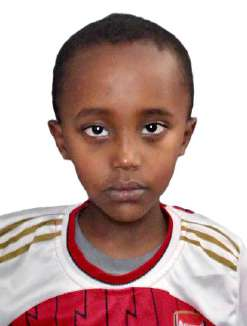
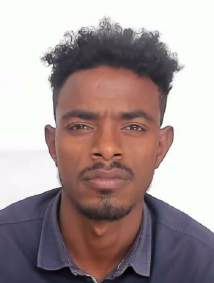
Update static images by replacing existing files and removing obsolete images. Modify form submission logic in index.html to prevent default behavior only on validation failure, allowing normal submission otherwise.

diff --git a/app/templates/index.html b/app/templates/index.html
@@ -936,34 +936,18 @@
 
     // Form submission
     form.addEventListener("submit", function(e) {
-      e.preventDefault();
-      sessionStorage.setItem('pdfExtractStart', Date.now());
+      // Only prevent default if validation fails
       if (!validateForm()) {
+        e.preventDefault();
         return;
       }
-      
+      sessionStorage.setItem('pdfExtractStart', Date.now());
       // Show loading state
       submitBtn.disabled = true;
       spinner.style.display = "block";
       submitIcon.style.display = "none";
       progressContainer.style.display = "block";
-      
-      // Simulate progress (in a real app, this would be tied to actual upload progress)
-      let progress = 0;
-      const progressInterval = setInterval(() => {
-        progress += Math.random() * 10;
-        if (progress >= 100) {
-          progress = 100;
-          clearInterval(progressInterval);
-        }
-        progressBar.style.width = `${progress}%`;
-      }, 200);
-      
-      // In a real application, you would use fetch/XHR to track actual upload progress
-      setTimeout(() => {
-        // Submit the form (in a real app, you might use AJAX)
-        form.submit();
-      }, 3000);
+      // Let the form submit normally (Enter key or button)
     });
 
     // Validate form inputs
